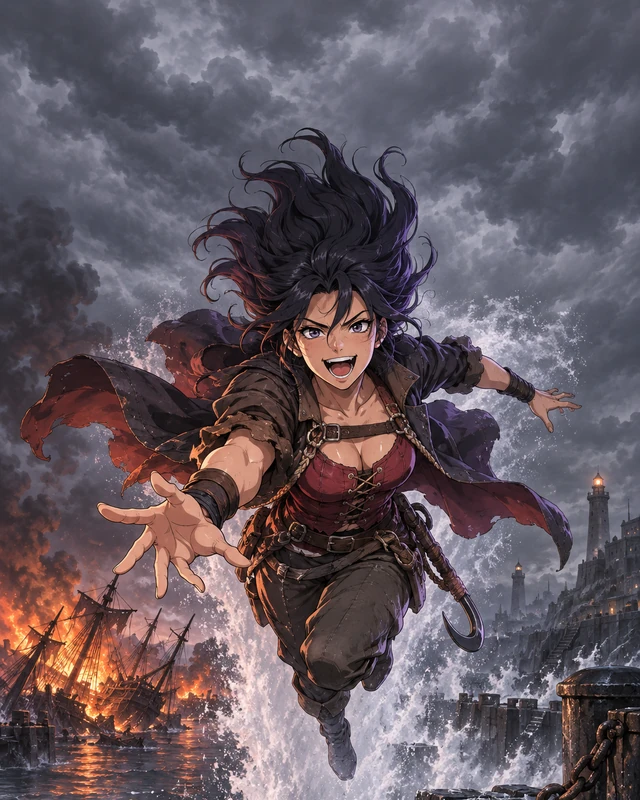
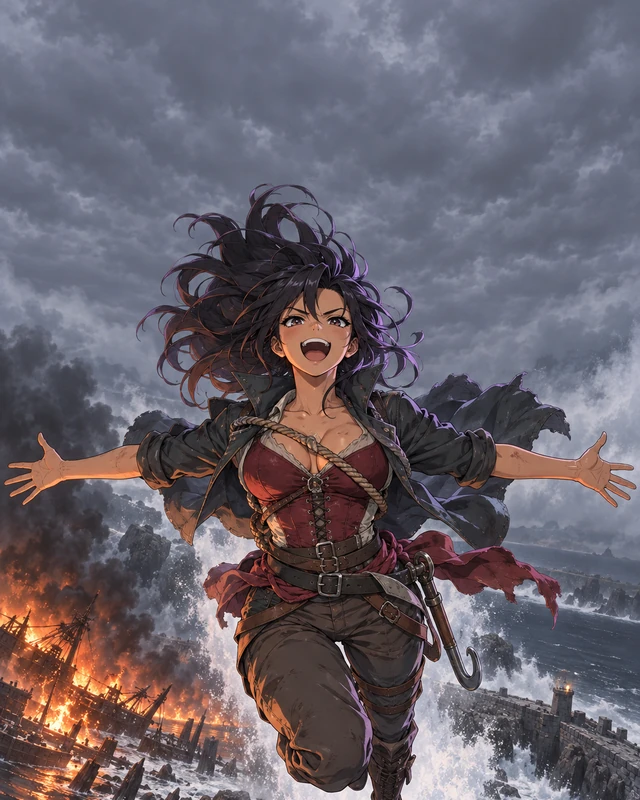
art(drowned-deep): owner review round two, four images regenerated to the notes

diff --git a/docs/art-bible/drowned-deep.md b/docs/art-bible/drowned-deep.md
@@ -359,7 +359,7 @@ waves remain in git history.
 - **Background:** The Salt Stair, granite steps climbing from the harbour to the chapel, at its sea-gate landing: wet steps, an iron-banded gate, black water two steps down.
 - **Holo interaction:** Sheen: keep the wet granite and oilskin textured.
 - **Rarity ambition:** SR: one figure, one act, and the story of the twice-moved post.
-- **Prompt:** EXACTLY ONE adult woman, the Gate-Warden of the Salt Stair, three-quarter length frontal, feet planted wide on a granite landing, both hands on the spokes of a bronze windlass mid-wind, its chain running straight up to a plain rectangular iron-banded timber sea-gate hung squarely in a granite arch, the gate drawn simply with straight edges, two old high-water stains on the granite wall behind her, one above the other, her head fully inside the middle band of the frame, clear air above it, heavy-built woman in her forties with auburn hair in a tight plait, tan oilskin coat belted over grey wool and cream salt-stiffened linen, bronze gate-key at the belt, bare forearms, broad grin, eyes on the viewer, a bronze gate lamp above her as the practical key in lamp amber `#ffb35c` from above onto her face and the windlass, one cool rim in mourning violet `#5a3f7a` from the harbour dusk, windlass in bell bronze `#a8783c`, no drowned gold anywhere in the frame, no cyan anywhere in the frame, no true black, darkest visible value wet-stone grey #2b3238, fully rendered background with a hard granite or bronze edge in it, wet granite steps and black water below, no helmets, no visors, no diving suits, the sky overcast grey with no sun, no sunset, no sunrise and no golden sky, no gold jewellery, no gold trim on cloth, every chain, crown and fitting bell bronze or tarnished steel, no text, no charts with names, no ship names, no lettered bells, no lettered lamps, no gravestone inscriptions, no signboards, no nameplates, no numerals, no writing on any surface — crisp cel-shaded gacha anime splash art, fully rendered scenic background, 640×800 portrait
+- **Prompt:** EXACTLY ONE adult woman, the Gate-Warden of the Salt Stair, three-quarter length frontal, feet planted wide on a granite landing, both hands on the spokes of a bronze windlass standing at her right side, the windlass drum at hip height beside her and its chain running straight up the granite wall beside her, well clear of her body, never crossing in front of her, to a plain rectangular iron-banded timber sea-gate hung squarely in a granite arch, the gate drawn simply with straight edges, two old high-water stains on the granite wall behind her, one above the other, her head fully inside the middle band of the frame, clear air above it, heavy-built woman in her forties with auburn hair in a tight plait, tan oilskin coat belted over grey wool and cream salt-stiffened linen, bronze gate-key at the belt, bare forearms, broad grin, eyes on the viewer, a bronze gate lamp above her as the practical key in lamp amber `#ffb35c` from above onto her face and the windlass, one cool rim in mourning violet `#5a3f7a` from the harbour dusk, windlass in bell bronze `#a8783c`, no drowned gold anywhere in the frame, no cyan anywhere in the frame, no true black, darkest visible value wet-stone grey #2b3238, fully rendered background with a hard granite or bronze edge in it, wet granite steps and black water below, no helmets, no visors, no diving suits, the sky overcast grey with no sun, no sunset, no sunrise and no golden sky, no gold jewellery, no gold trim on cloth, every chain, crown and fitting bell bronze or tarnished steel, no text, no charts with names, no ship names, no lettered bells, no lettered lamps, no gravestone inscriptions, no signboards, no nameplates, no numerals, no writing on any surface — crisp cel-shaded gacha anime splash art, fully rendered scenic background, 640×800 portrait
 
 ### Tide-Priestess of the Reach — `dd-tide-priestess`
 - **Card facts:** {2}{U}{U} · U · 3/3 · skyborne · sr · holo: sheen
@@ -524,7 +524,7 @@ waves remain in git history.
 - **Background:** The Breakwater, wet granite blocks running into the Reach, wreck timbers along it, a violet storm wall rolling in.
 - **Holo interaction:** Sheen: foam textured and sky toned so the sweep finds no flat white field.
 - **Rarity ambition:** SR: a crowd moment, the storm answering.
-- **Prompt:** EXACTLY THREE adult women, a wreckers' storm choir, the lead in front broad and dark-haired, the two behind leaner, one fair and one grey-streaked, three-quarter knees-up view all mid-stride down a granite breakwater toward the viewer, mouths open at full shout, the lead woman in front with her head fully inside the middle band of the frame, clear air above it, her fist on a bell rope mid-pull, the plain bronze bell hanging from a short post beside her at her shoulder height, the bell and post drawn simply and squarely, tarred canvas coats over rust-red and ochre bodices, bare forearms, wet hair tied back, boots, a wreck-fire brazier on the rock at frame right as the practical key throwing orange wreck fire #ff6a3d on all three faces, one cool rim in mourning violet #5a3f7a from the storm wall behind them, wreck timbers and black water beyond, no drowned gold anywhere in the frame, no cyan anywhere in the frame, no true black, darkest visible value wet-stone grey #2b3238, water drawn as a flat reflective surface with a visible edge against rock, fully rendered background with a hard rock, timber or bronze edge in it, no helmets, no visors, no diving suits, the sky overcast grey with no sun, no sunset, no sunrise and no golden sky, no gold jewellery, no gold trim on cloth, every chain, crown and fitting bell bronze or tarnished steel, no text, no charts with names, no ship names, no lettered bells, no lettered lamps, no gravestone inscriptions, no signboards, no nameplates, no numerals, no writing on any surface — crisp cel-shaded gacha anime splash art, fully rendered scenic background, 640×800 portrait
+- **Prompt:** EXACTLY THREE adult women, a wreckers' storm choir, the lead in front broad and dark-haired, the two behind leaner, one fair and one grey-streaked, three-quarter knees-up view all mid-stride down a granite breakwater toward the viewer, mouths open at full shout, the lead woman in front with her head fully inside the middle band of the frame, clear air above it, her right fist raised high in the shout and her left hand flat on her own chest, no bell, no post, no rope anywhere in the frame, the shout itself the act, tarred canvas coats over rust-red and ochre bodices, bare forearms, wet hair tied back, boots, a wreck-fire brazier on the rock at frame right as the practical key throwing orange wreck fire #ff6a3d on all three faces, one cool rim in mourning violet #5a3f7a from the storm wall behind them, wreck timbers and black water beyond, no drowned gold anywhere in the frame, no cyan anywhere in the frame, no true black, darkest visible value wet-stone grey #2b3238, water drawn as a flat reflective surface with a visible edge against rock, fully rendered background with a hard rock, timber or bronze edge in it, no helmets, no visors, no diving suits, the sky overcast grey with no sun, no sunset, no sunrise and no golden sky, no gold jewellery, no gold trim on cloth, every chain, crown and fitting bell bronze or tarnished steel, no text, no charts with names, no ship names, no lettered bells, no lettered lamps, no gravestone inscriptions, no signboards, no nameplates, no numerals, no writing on any surface — crisp cel-shaded gacha anime splash art, fully rendered scenic background, 640×800 portrait
 
 ### Salt-Fire Witch — `dd-salt-fire-witch`
 - **Card facts:** {2}{R}{R} · R · 4/2 · firstBlade · sr · holo: sheen
@@ -1064,7 +1064,7 @@ waves remain in git history.
 - **Background:** Open air over the Reach, the Breakwater's granite line and a burning wreck far below, violet storm cloud above.
 - **Holo interaction:** Sheen: keep the sail toned and seamed so the sweep does not white it out.
 - **Rarity ambition:** Rare: motion and fire, the storm ridden.
-- **Prompt:** EXACTLY ONE adult woman, a wiry wind-burned gale-rider with dark whipping hair, three-quarter view from slightly below, full figure airborne with no ground under her, carried on the gale itself with no sail, no glider, no wings and no harness, her coat and hair streaming straight upward and a column of white storm spray lifting her, exactly two arms and exactly two hands with five fingers each, every hand fully accounted for,  her head fully inside the middle band of the frame, clear air above it, shouting down at the viewer, wide grin, fitted tarred canvas jacket over a crimson bodice, rope harness across the chest, bare forearms, bound trousers, a boat-hook at her hip, a burning wreck far below at frame left as the practical key throwing orange wreck fire #ff6a3d up the underside of the sail and her jaw, one cool rim in mourning violet #5a3f7a from the storm cloud above, a breakwater's granite line and flat black water far below, no drowned gold anywhere in the frame, no cyan anywhere in the frame, no true black, darkest visible value wet-stone grey #2b3238, water drawn as a flat reflective surface with a visible edge against rock, fully rendered background with a hard rock, timber or bronze edge in it, no helmets, no visors, no diving suits, the sky overcast grey with no sun, no sunset, no sunrise and no golden sky, no gold jewellery, no gold trim on cloth, every chain, crown and fitting bell bronze or tarnished steel, no text, no charts with names, no ship names, no lettered bells, no lettered lamps, no gravestone inscriptions, no signboards, no nameplates, no numerals, no writing on any surface — crisp cel-shaded gacha anime splash art, fully rendered scenic background, 640×800 portrait
+- **Prompt:** EXACTLY ONE adult woman, a wiry wind-burned gale-rider with dark whipping hair, three-quarter view from slightly below, full figure airborne with no ground under her, both arms spread wide to her sides at shoulder height with open palms facing the viewer, no hand or arm reaching toward the camera, nothing foreshortened, carried on the gale itself with no sail, no glider, no wings and no harness, her coat and hair streaming straight upward and a column of white storm spray lifting her, exactly two arms and exactly two hands with five fingers each, every hand fully accounted for,  her head fully inside the middle band of the frame, clear air above it, shouting down at the viewer, wide grin, fitted tarred canvas jacket over a crimson bodice, rope harness across the chest, bare forearms, bound trousers, a boat-hook at her hip, a burning wreck far below at frame left as the practical key throwing orange wreck fire #ff6a3d up her jaw and the underside of her spread arms, one cool rim in mourning violet #5a3f7a from the storm cloud above, a breakwater's granite line and flat black water far below, no drowned gold anywhere in the frame, no cyan anywhere in the frame, no true black, darkest visible value wet-stone grey #2b3238, water drawn as a flat reflective surface with a visible edge against rock, fully rendered background with a hard rock, timber or bronze edge in it, no helmets, no visors, no diving suits, the sky overcast grey with no sun, no sunset, no sunrise and no golden sky, no gold jewellery, no gold trim on cloth, every chain, crown and fitting bell bronze or tarnished steel, no text, no charts with names, no ship names, no lettered bells, no lettered lamps, no gravestone inscriptions, no signboards, no nameplates, no numerals, no writing on any surface — crisp cel-shaded gacha anime splash art, fully rendered scenic background, 640×800 portrait
 
 ### The Wrecker Queen — `dd-wrecker-queen`
 - **Card facts:** {2}{R}{R} · R · 4/4 · rage, overrun · r, legendary · holo: sheen

diff --git a/docs/spell-art.md b/docs/spell-art.md
@@ -1170,7 +1170,7 @@ The 97 non-creature cards of the locked Drowned Deep cut (22 Charms, 38 Rituals,
 - **Prompt:** Lifegain effect, one bronze hand lantern with a plain glass chimney filling at least one third of the frame width, held up at mid-height in the central band, fully visible in the upper two thirds, never near the bottom edge, EXACTLY ONE adult woman widow at the right third in mourning violet silk and a salt-white veil, the lantern's glass door swung open, one hand on the lantern's ring, the other reaching a lit taper in through the open door to the wick mid-work, exactly two arms and exactly two hands with five fingers each, every hand fully accounted for,  the flame just catching in lamp amber, a Salt Stair doorway behind her, the granite steps running down to the harbour, flat black water at their foot against the granite, mono-white palette of lamp amber, salt white and granite grey, the lantern as the named practical key lighting her from above, her face the warmest thing in the frame, one cool rim of grey daylight from the sea, no cyan anywhere in the frame, no drowned gold anywhere in the frame, no true black, darkest visible value wet-stone grey `#2b3238`, water drawn as a flat reflective surface with a visible edge against stone, fully rendered background with a hard granite or bronze edge in it, never a colour wash, no lens flare, no starburst, no radial rays, no glowing orb, no helmets, no visors, no diving suits, no men, no male figures, the sky overcast grey with no sun, no sunset, no sunrise and no golden sky, no gold jewellery, no gold trim on cloth, every chain, crown and fitting bell bronze or tarnished steel, no text, no charts with names, no ship names, no lettered bells, no lettered lamps, no gravestone inscriptions, no signboards, no nameplates, no numerals, no writing on any surface, blank vellum only, plain cast bells only — crisp cel-shaded gacha anime spell illustration, dramatic magical effect centered in frame, fully rendered scenic background, 640×800 portrait
 
 ### Tide-Gate — `dd-tide-gate`
-- **Prompt:** Duty tap effect, one iron sluice gate filling at least one third of the frame width set between granite harbour piers, raised at mid-height inside the central band, fully visible in the upper two thirds, never near the bottom edge, the gate dropping on bronze chains, EXACTLY ONE adult woman Lantern Warden at the left third in oilskin and wool, both hands on a bronze winding wheel mid-turn, exactly two arms and exactly two hands with five fingers each, every hand fully accounted for,  the chain running taut to the gate, black water held flat on the seaward side against the iron and the granite piers, the harbour side calm and lamp-lit, salt crust along every iron bar, mono-white palette of lamp amber, salt white and granite grey, one bronze-housed lamp on the near pier as the named practical key lighting from above, one cool rim of grey daylight along the top of the gate, no cyan anywhere in the frame, no drowned gold anywhere in the frame, no true black, darkest visible value wet-stone grey `#2b3238`, water drawn as a flat reflective surface with a visible edge against stone, fully rendered background with a hard granite or bronze edge in it, never a colour wash, no lens flare, no starburst, no radial rays, no glowing orb, no helmets, no visors, no diving suits, no men, no male figures, the sky overcast grey with no sun, no sunset, no sunrise and no golden sky, no gold jewellery, no gold trim on cloth, every chain, crown and fitting bell bronze or tarnished steel, no text, no charts with names, no ship names, no lettered bells, no lettered lamps, no gravestone inscriptions, no signboards, no nameplates, no numerals, no writing on any surface, blank vellum only, plain cast bells only — crisp cel-shaded gacha anime spell illustration, dramatic magical effect centered in frame, fully rendered scenic background, 640×800 portrait
+- **Prompt:** Duty tap effect, one iron sluice gate filling at least one third of the frame width set between granite harbour piers, raised at mid-height inside the central band, fully visible in the upper two thirds, never near the bottom edge, the gate dropping on bronze chains, EXACTLY ONE adult woman Lantern Warden at the left third in oilskin and wool seen from behind and slightly to the side so her back and shoulders face the viewer, both hands gripping the rim of a bronze winding wheel in front of her with both arms straight, the wheel between her and the gate, exactly two arms and exactly two hands, no extra limbs, the chain running from the wheel's drum straight up to the gate, black water held flat on the seaward side against the iron and the granite piers, the harbour side calm and lamp-lit, salt crust along every iron bar, mono-white palette of lamp amber, salt white and granite grey, one bronze-housed lamp on the near pier as the named practical key lighting from above, one cool rim of grey daylight along the top of the gate, no cyan anywhere in the frame, no drowned gold anywhere in the frame, no true black, darkest visible value wet-stone grey `#2b3238`, water drawn as a flat reflective surface with a visible edge against stone, fully rendered background with a hard granite or bronze edge in it, never a colour wash, no lens flare, no starburst, no radial rays, no glowing orb, no helmets, no visors, no diving suits, no men, no male figures, the sky overcast grey with no sun, no sunset, no sunrise and no golden sky, no gold jewellery, no gold trim on cloth, every chain, crown and fitting bell bronze or tarnished steel, no text, no charts with names, no ship names, no lettered bells, no lettered lamps, no gravestone inscriptions, no signboards, no nameplates, no numerals, no writing on any surface, blank vellum only, plain cast bells only — crisp cel-shaded gacha anime spell illustration, dramatic magical effect centered in frame, fully rendered scenic background, 640×800 portrait
 
 ### Salt Ward — `dd-salt-ward`
 - **Prompt:** Toughness boost effect, one heavy oak-and-bronze cottage door in a granite frame filling at least one third of the frame width at mid-height inside the central band, fully visible in the upper two thirds, never near the bottom edge, one thick unbroken line of salt white laid across the wet granite threshold, a bronze-housed lamp hung beside the door burning lamp amber and lighting from above, no figures, the door shut and the salt line bright and freshly poured, the cobbles of Low Street wet and reflecting the lamp, a strip of flat black harbour water at the left against the quay granite, mono-white palette of lamp amber, salt white and granite grey, the door lamp as the named practical key, one cool rim of grey daylight from the overcast sky at the street's end, no cyan anywhere in the frame, no drowned gold anywhere in the frame, no true black, darkest visible value wet-stone grey `#2b3238`, water drawn as a flat reflective surface with a visible edge against stone, fully rendered background with a hard granite or bronze edge in it, never a colour wash, no lens flare, no starburst, no radial rays, no glowing orb, no helmets, no visors, no diving suits, no men, no male figures, the sky overcast grey with no sun, no sunset, no sunrise and no golden sky, no gold jewellery, no gold trim on cloth, every chain, crown and fitting bell bronze or tarnished steel, no text, no charts with names, no ship names, no lettered bells, no lettered lamps, no gravestone inscriptions, no signboards, no nameplates, no numerals, no writing on any surface, blank vellum only, plain cast bells only — crisp cel-shaded gacha anime spell illustration, dramatic magical effect centered in frame, fully rendered scenic background, 640×800 portrait
